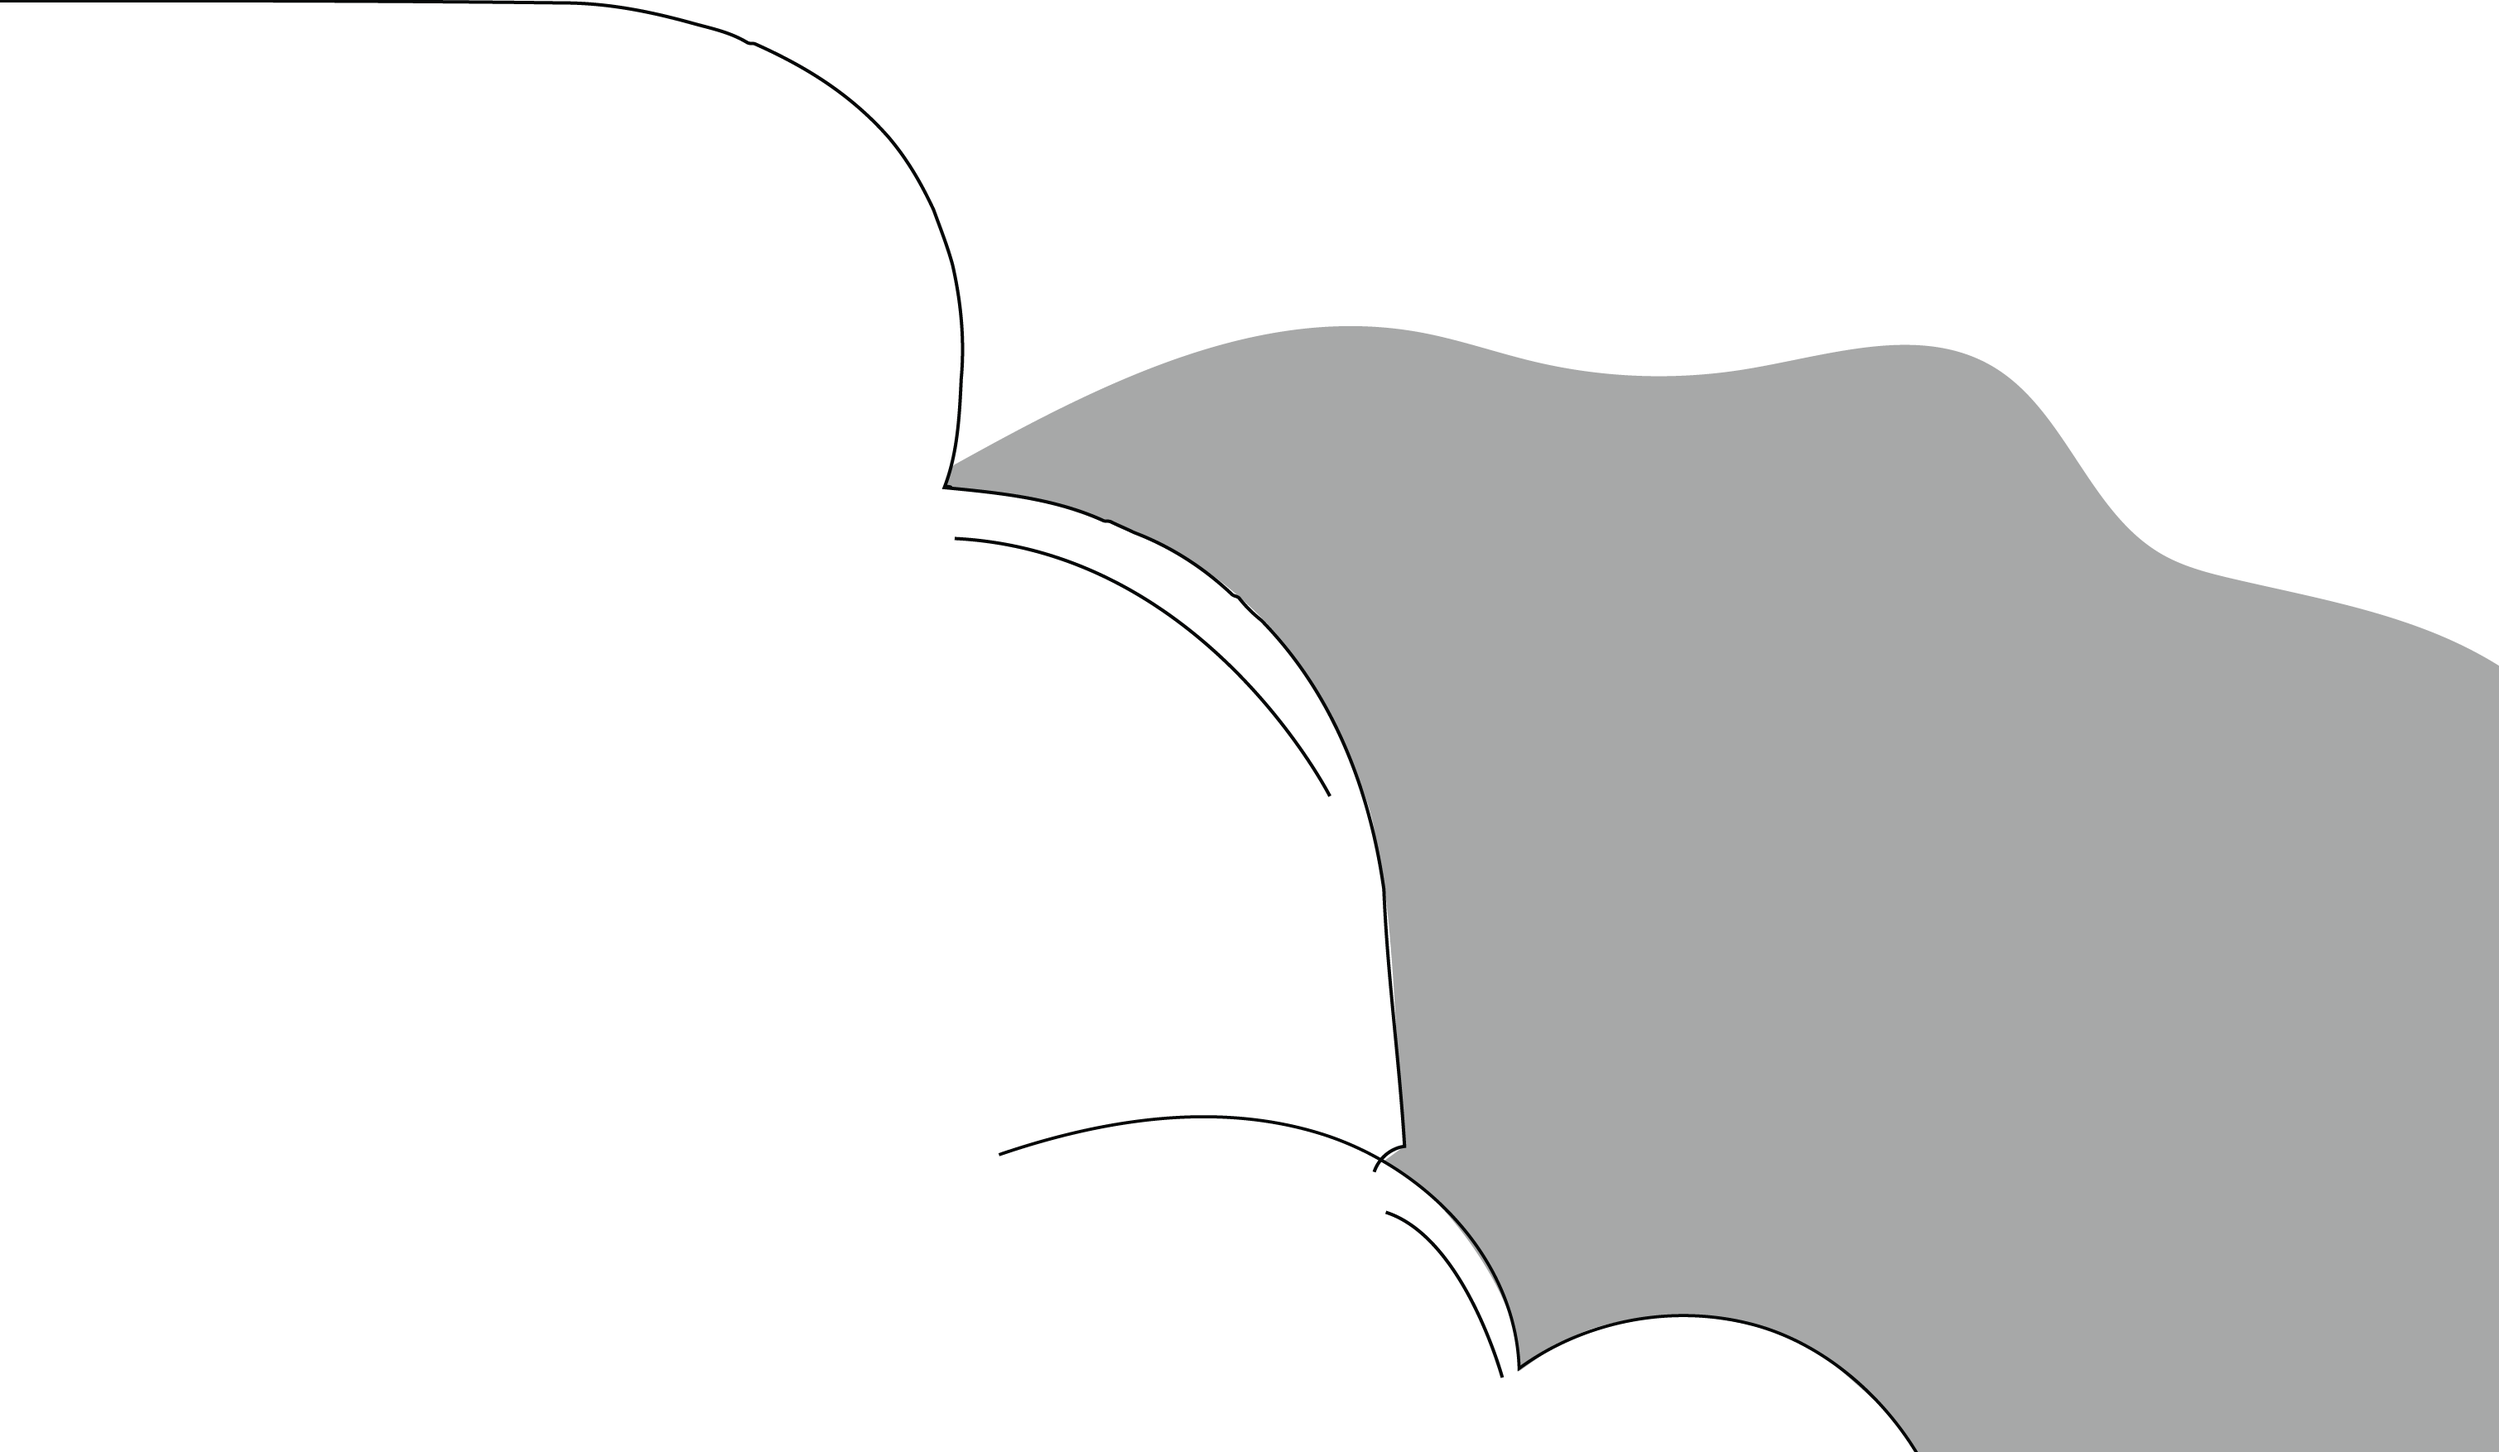
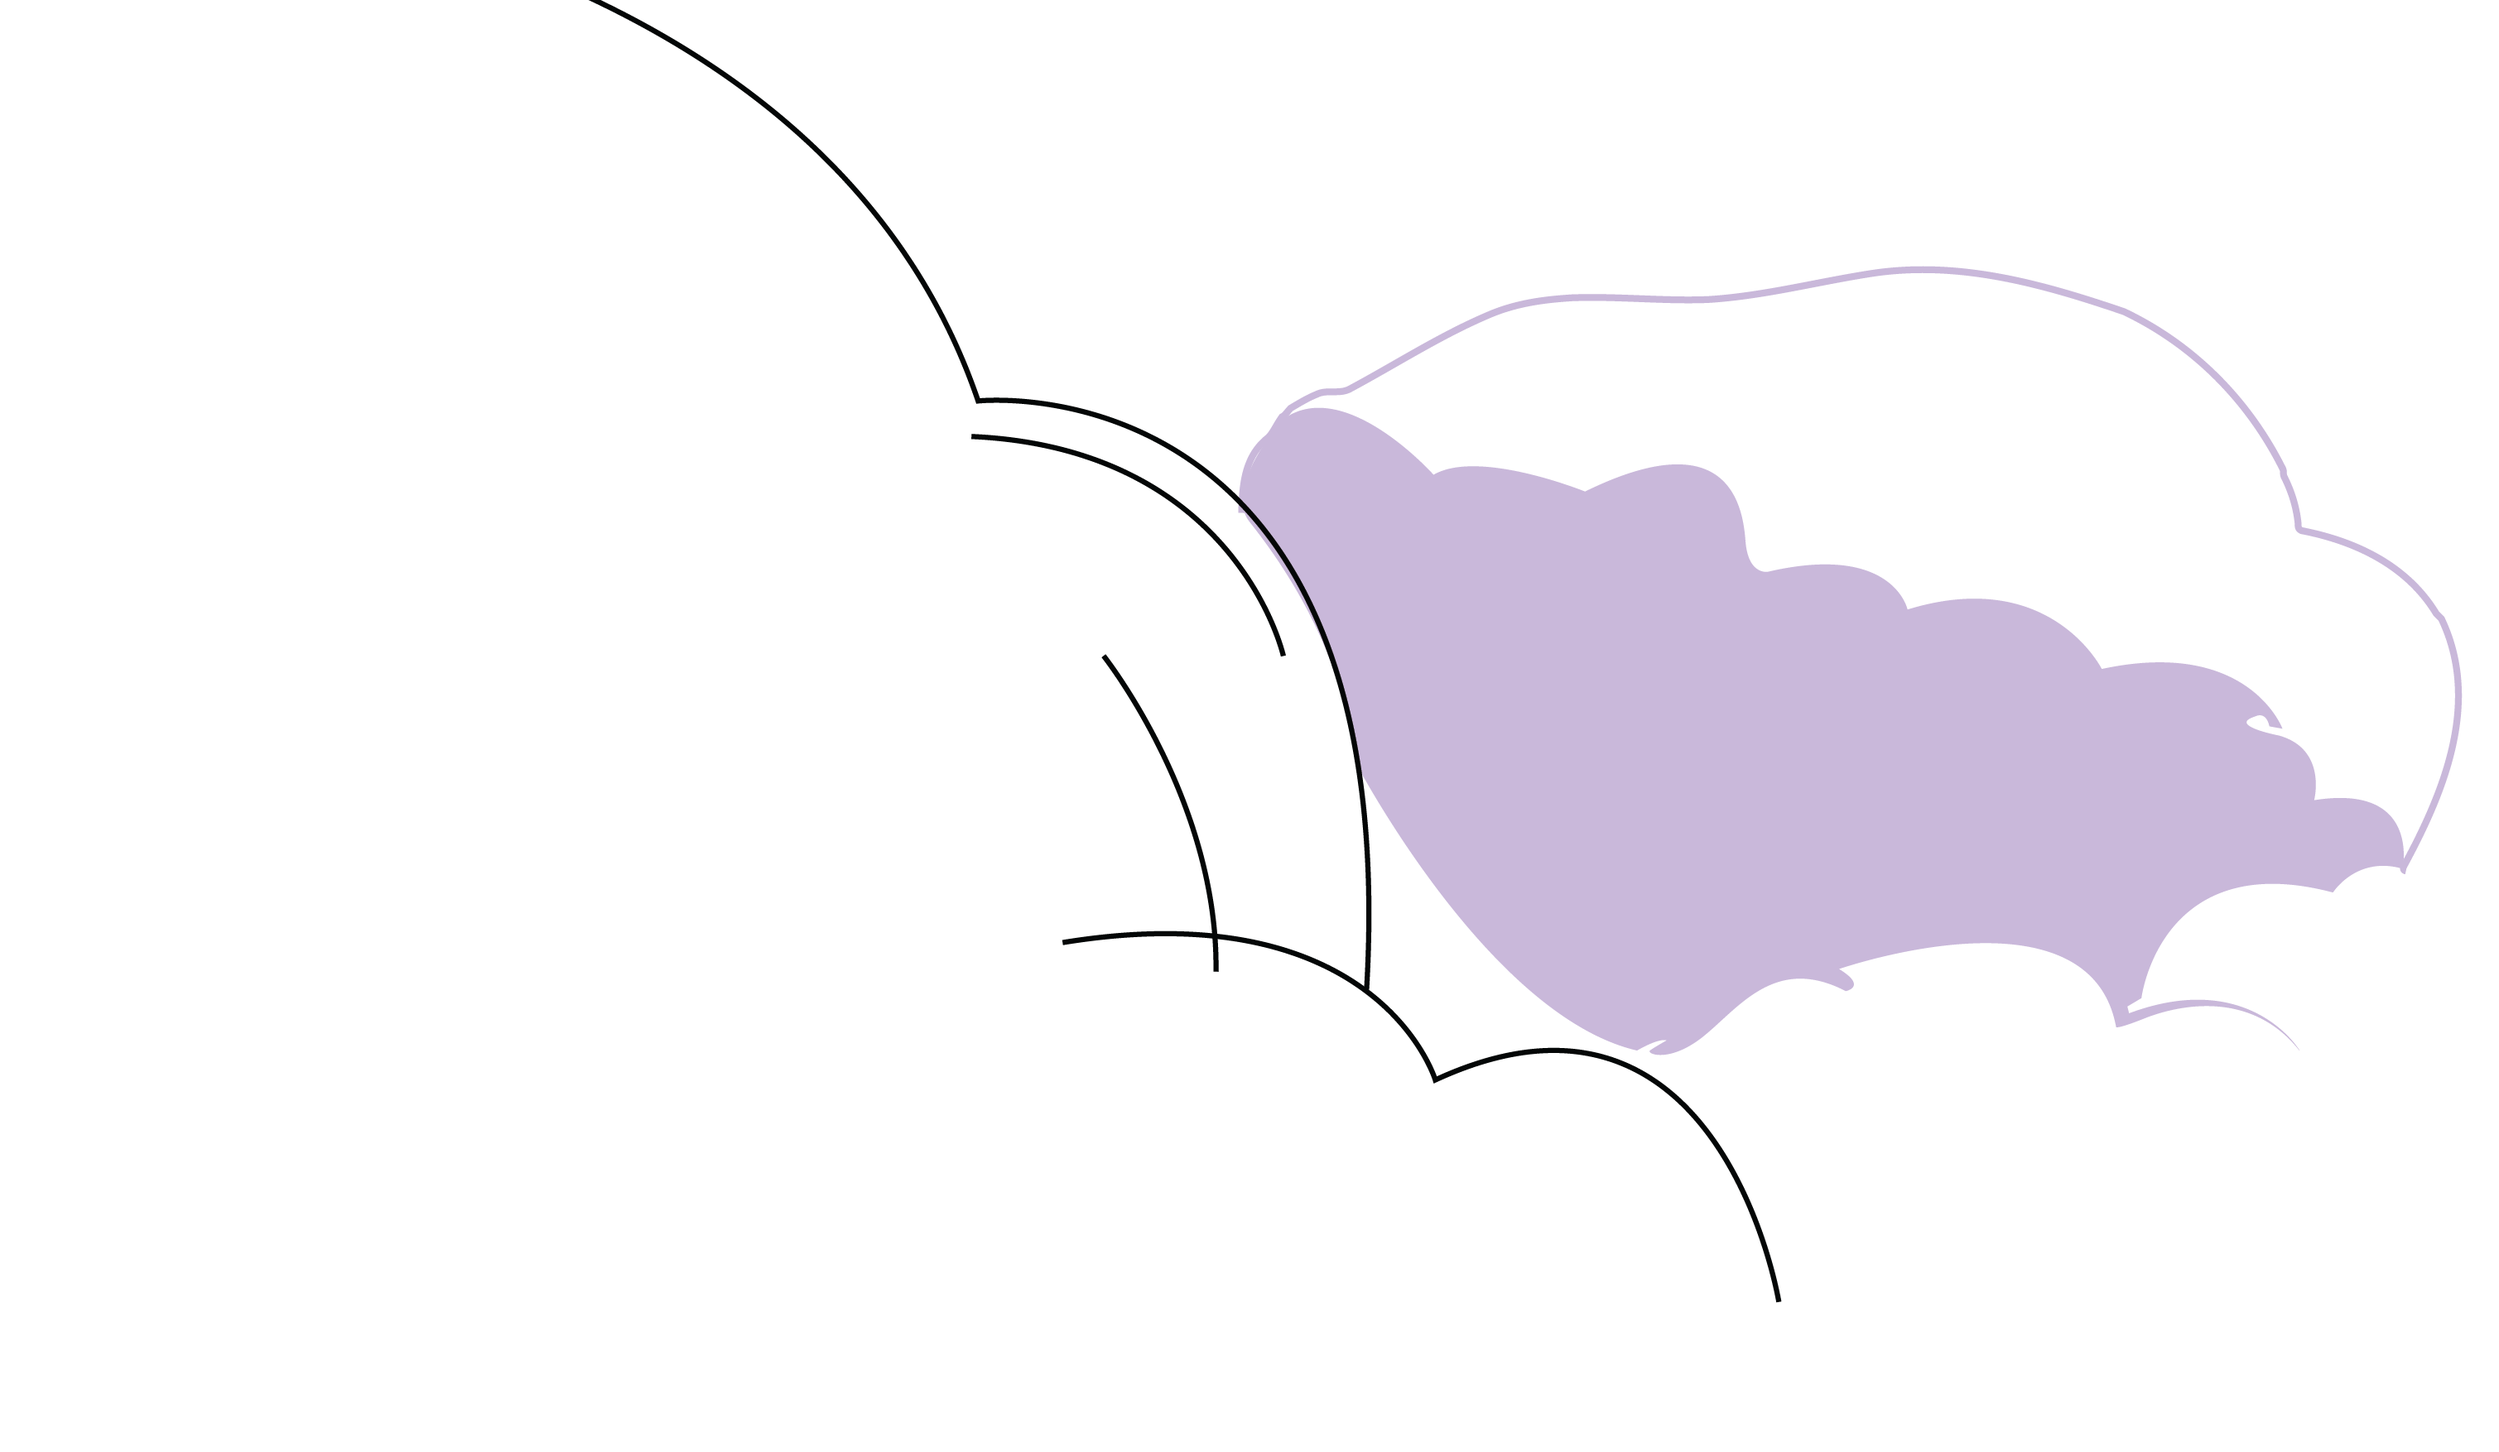
bg added for admission section

diff --git a/index.html b/index.html
@@ -7993,11 +7993,11 @@
 
 
                                     <div class="section-slide ui-slide" id="one-tap-section"
-                                        style="width: 25vw; transform: translate(0%, 0px); background-color: #f8f8f6;">
+                                        style="width: 50vw; transform: translate(0%, 0px); background-color: #f8f8f6;">
 
-                                        <div style=" padding-bottom: 40px;">
+                                        <div style=" padding-bottom: 60px;">
                                             <div class="section-slide-wrap"
-                                                style=" flex-direction: row; border: 2px solid #0c0b0b; border-radius: 12px; padding: 20px; background: url('./Sections_svgs/scolarship_bg.png') center/cover no-repeat, #f8f8f6; position: relative;">
+                                                style=" flex-direction: row; border: 2px solid #0c0b0b; border-radius: 12px; padding: 50px; background: url('./Sections_svgs/World_map.svg') center bottom/100% auto no-repeat, #f8f8f6; background-position: center 20px; position: relative; min-height: 450px; overflow: hidden;">
 
                                                 <!-- Top bar decoration -->
                                                 <div
@@ -8012,7 +8012,7 @@
                                                     </div>
                                                 </div>
 
-                                                
+                                               
                                             </div>
 
                                         </div>
@@ -8026,44 +8026,46 @@
                                 <div class="section-slide ui-slide" id="course-depth-section"
                                     style="width: 25vw; transform: translate(0%, 0px); background-color: #f8f8f6;">
 
-                                    <div style=" padding-bottom: 40px;">
-                                        <div class="section-slide-wrap"
-                                            style=" flex-direction: row; border: 2px solid #0c0b0b; border-radius: 12px; padding: 20px; background: #f8f8f6; position: relative;">
+                                    <div style=" padding-bottom: 60px;">
+                                            <div class="section-slide-wrap"
+                                                style=" flex-direction: row; border: 2px solid #0c0b0b; border-radius: 12px; padding: 50px; background: url('./Sections_svgs/scolarship_bg.png') center/cover no-repeat, #f8f8f6; position: relative; min-height: 450px; overflow: hidden;">
 
-                                            <!-- Top bar decoration -->
-                                            <div
-                                                style="position: absolute; top: 0; left: 0; right: 0; height: 40px; background: transparent; border-bottom: 1px solid #0c0b0b; border-radius: 10px 10px 0 0; display: flex; align-items: center; padding-left: 15px;">
-                                                <div style="display: flex; gap: 6px;">
-                                                    <span
-                                                        style="width: 10px; height: 10px; background: #0c0b0b; border-radius: 50%;"></span>
-                                                    <span
-                                                        style="width: 10px; height: 10px; background: #0c0b0b; border-radius: 50%;"></span>
-                                                    <span
-                                                        style="width: 10px; height: 10px; background: #0c0b0b; border-radius: 50%;"></span>
-                                                </div>
-                                            </div>
-
-
-                                            <div class="section-slide-img-wrap" style="padding-top: 50px;">
-                                                <div class="section-slide-video w-embed">
-                                                    <img src="./story_section_images/Dremdesk_image.png"
-                                                        alt="Career Path Illustration"
-                                                        style="width: 100%; height: 100%; object-fit: contain;">
-                                                </div>
-                                            </div>
-
-                                            <div class="section-slide-text" style="padding-top: 50px;">
-                                                <div class="p3"
-                                                    style="font-size: 0.40rem; font-weight: 800; line-height: 1.1; margin: 0; text-transform: uppercase; letter-spacing: -0.02em;">
-                                                    This section provides students with an in-depth view of the
-                                                    course.
+                                                <!-- Top bar decoration -->
+                                                <div
+                                                    style="position: absolute; top: 0; left: 0; right: 0; height: 40px; background: #f8f8f6; border-bottom: 1px solid #0c0b0b; border-radius: 10px 10px 0 0; display: flex; align-items: center; padding-left: 15px;">
+                                                    <div style="display: flex; gap: 6px;">
+                                                        <span
+                                                            style="width: 10px; height: 10px; background: #0c0b0b; border-radius: 50%;"></span>
+                                                        <span
+                                                            style="width: 10px; height: 10px; background: #0c0b0b; border-radius: 50%;"></span>
+                                                        <span
+                                                            style="width: 10px; height: 10px; background: #0c0b0b; border-radius: 50%;"></span>
+                                                    </div>
                                                 </div>
 
+                                                <!-- Scholarship Content -->
+                                                <div style="display: flex; align-items: center; justify-content: space-between; width: 100%; padding-top: 80px; min-height: 350px;">
+                                                    <!-- Left side - Text Content -->
+                                                    <div style="flex: 1; padding-right: 50px;">
+                                                        <h2 style="font-family: 'Helvetica Neue', Arial, sans-serif; font-size: 42px; font-weight: 800; color: #333; margin: 0 0 25px 0; line-height: 1.1;">
+                                                            FLY YOUR<br>
+                                                            WAY TO <span style="color: #f2d803;">HIGHER</span><br>
+                                                            <span style="color: #333; background: #000; padding: 8px 20px; border-radius: 25px; color: white; font-size: 32px;">EDUCATION</span> WITH<br>
+                                                            <span style="background: #000; color: white; padding: 8px 20px; border-radius: 25px; font-size: 32px;">SCHOLARSHIP</span>
+                                                        </h2>
+                                                        <button style="margin-top: 30px; border: 2px solid #333; background: transparent; padding: 16px 32px; border-radius: 25px; font-size: 18px; font-weight: 600; color: #333; cursor: pointer; transition: all 0.3s ease;">
+                                                            Sign up
+                                                        </button>
+                                                    </div>
+                                                    
+                                                    <!-- Right side - SVG Illustration -->
+                                                    <div style="flex: 1; display: flex; justify-content: center; align-items: center;">
+                                                        <img src="./Sections_svgs/SVG1-01.svg" alt="Flying Pencil Illustration" style="max-width: 100%; height: auto; max-height: 300px;">
+                                                    </div>
+                                                </div>
                                             </div>
-
 
                                         </div>
-                                    </div>
                                 </div>
 
 
